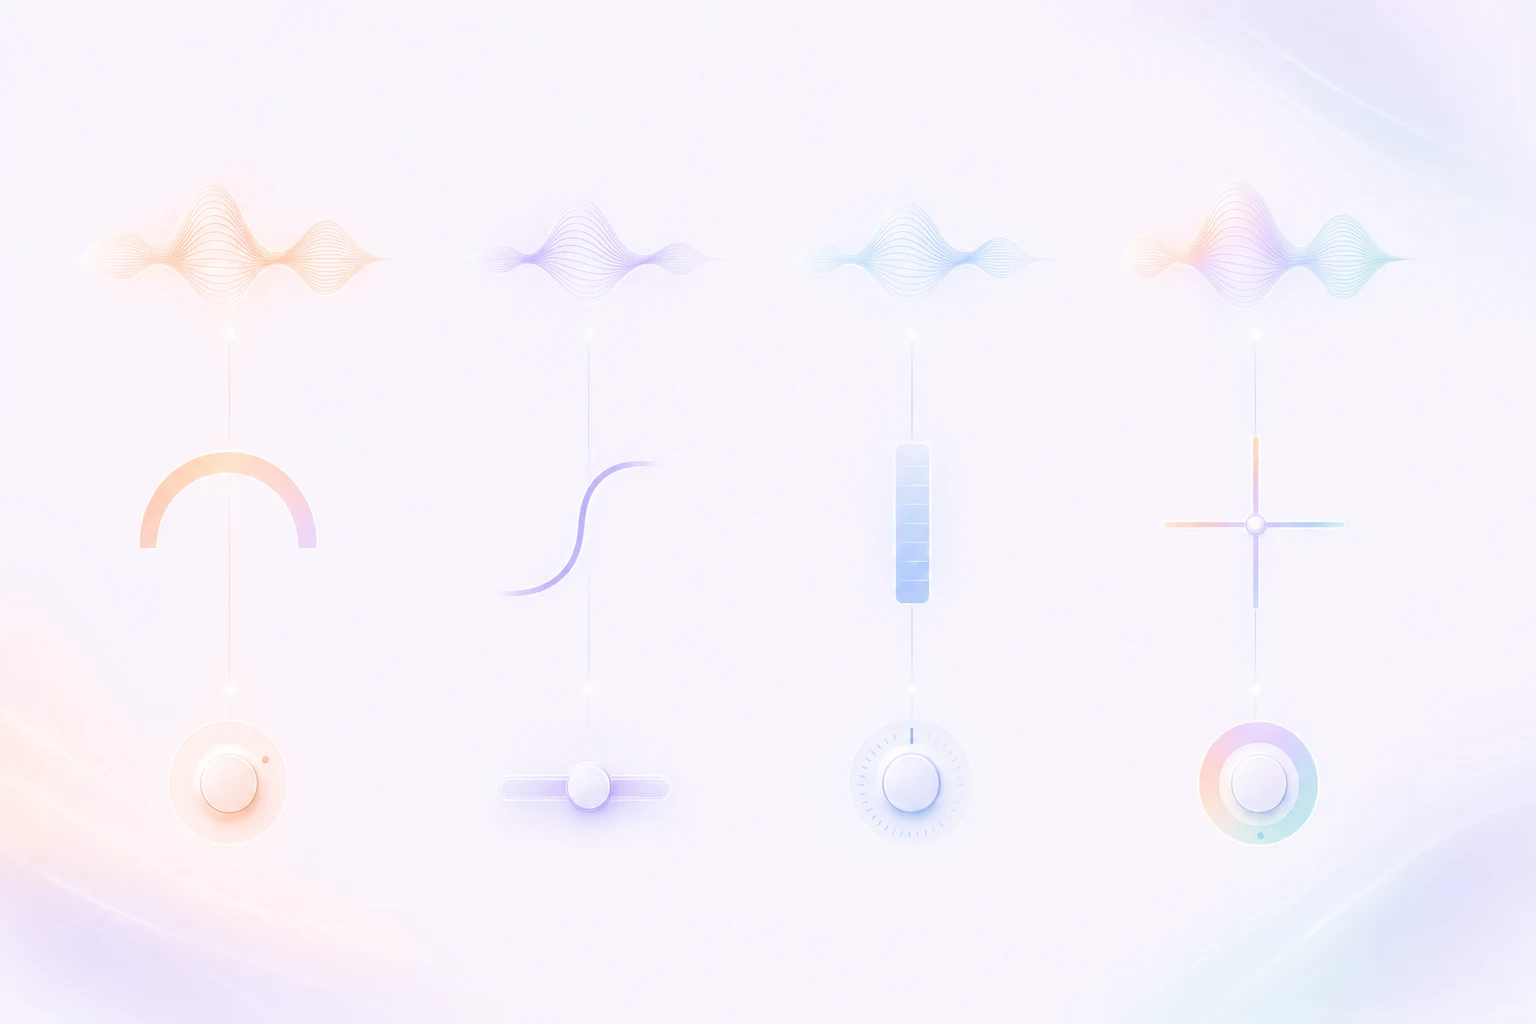
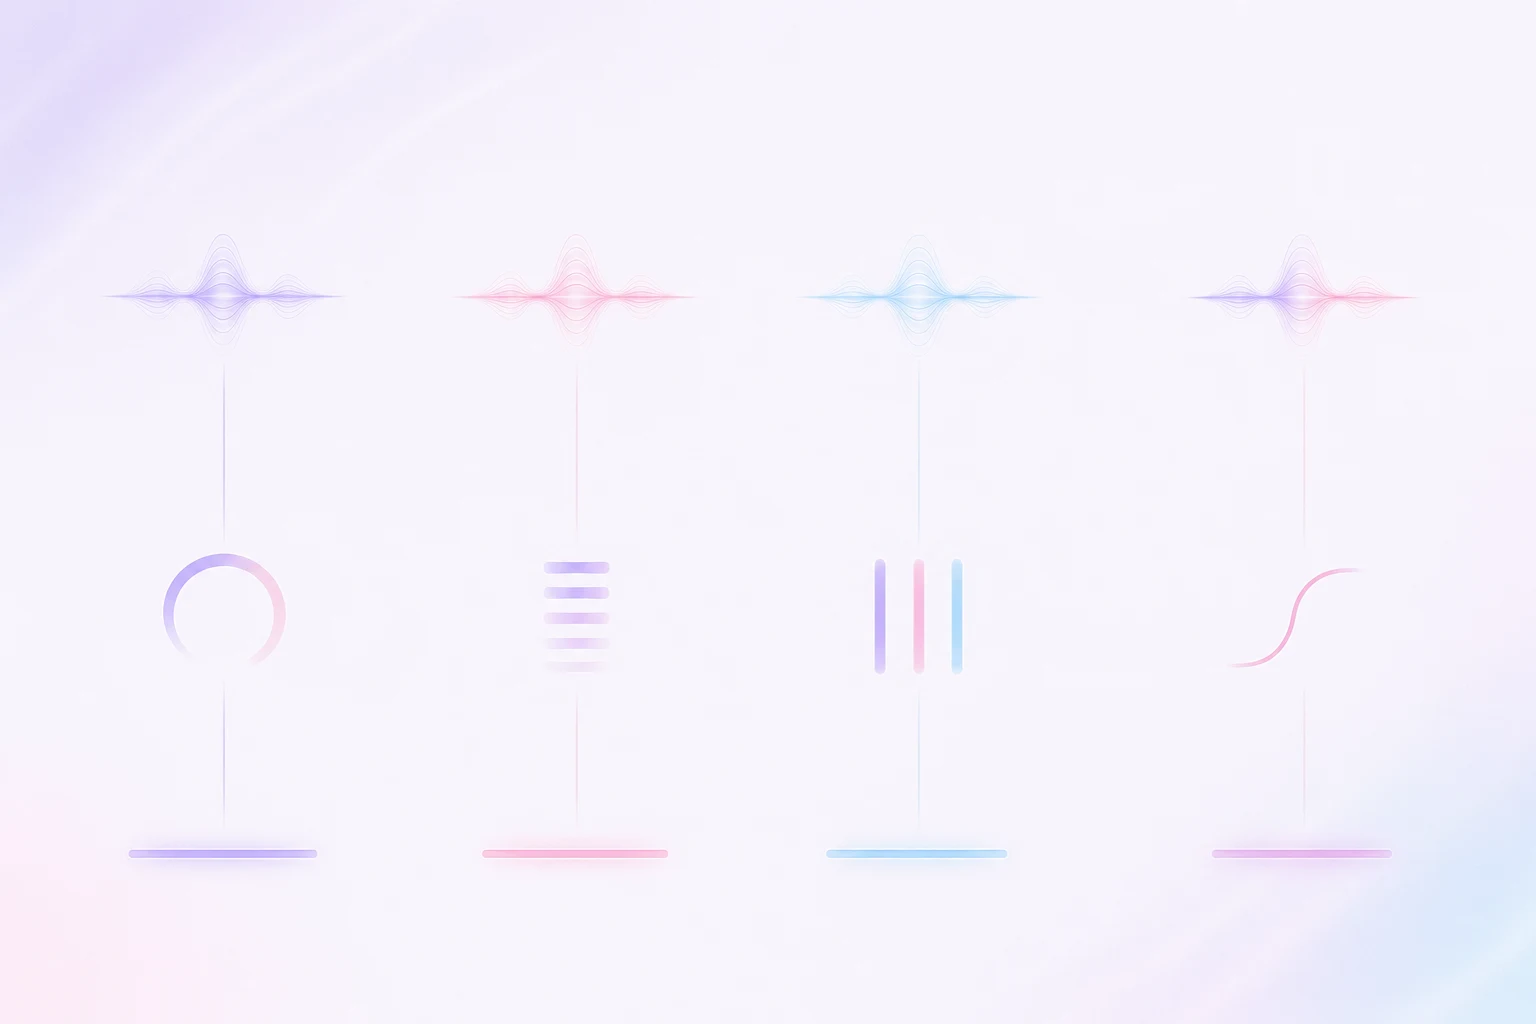
feat(notes/diagrams): grading 2図を v3 仕様に同期 (centered-axes + horizontal-flow / aurora 3色)
- grading-look-decomposition: axes/hint を v3 (8b38762c) に再アライン
  「色相弧 / 濃度バー / S 曲線 / RGB 3 ビーム」の 4 軸 + 軸独立性 hint
- grading-words-to-knobs: keypoint-row → horizontal-flow に切替
  4 steps「もう少し暖かく / もう少し抜けを / 青を深く / 映画っぽく」
- 両図の prompt から warm peach / muted teal / faint sky 系を除去
  aurora は purple / pink / sky の 3 色に厳格化
- AI 画像は背景・気分のみ、ラベル・番号・矢印は note-diagram.tsx で描画
- 画像再生成 + meta.json 更新

diff --git a/src/lib/notes/diagrams.ts b/src/lib/notes/diagrams.ts
@@ -116,37 +116,35 @@ export const DIAGRAM_REGISTRY: Record<string, DiagramConfig> = {
     layout: "centered-axes",
     title: "Look Decomposition 4軸マップ",
     caption:
-      "抽象的な言葉を、4つの調整軸に落とす。中心の作品ルックから「色の広がり・転がり」「濃度」「カーブ」「RGBカラーバランス」へ手が伸びる足場。",
-    alt: "中心に作品のルックを置き、色の広がり・転がり、濃度、カーブ、RGBカラーバランスの4軸が放射状に分かれることを示す抽象図解",
+      "ルックは独立した4軸の合成。中心の作品ルックから、色相弧・濃度バー・S曲線・RGB3ビームへ等しい重みで手が伸びる足場。",
+    alt: "中心に作品のルックを置き、色相弧・濃度バー・S曲線・RGB3ビームの4軸が等重みで放射状に分かれることを示す抽象図解",
     aspect: { width: 1536, height: 1024 },
-    intro: "中心 → 4軸の順で読む。「映画っぽく」が、4軸のどれかに落ちる仕組みを掴む。",
+    intro: "中心 → 4軸の順で読む。ルックは独立した4軸の合成として扱える。",
     centerLabel: "作品のルック",
-    centerSubLabel: "監督の言葉が、ノードに落ちる場所",
-    axesHeading: "4つの調整軸 — Look Decomposition",
+    centerSubLabel: "監督の言葉が、ここに落ちる",
+    axesHeading: "4 軸（等重み）",
     axes: [
       {
-        label: "色の広がり・転がり",
-        sublabel: "色相の回転と彩度。グレーも輝度も動かさない",
+        label: "色相弧",
+        sublabel: "色の広がり・転がり",
       },
       {
-        label: "濃度",
-        sublabel: "色ごとの輝度。立体感はここで決まる",
+        label: "濃度バー",
+        sublabel: "どこをどれだけ重く",
       },
       {
-        label: "カーブ",
-        sublabel: "グレースケールの明暗設計",
+        label: "S 曲線",
+        sublabel: "トーンの肩・トー",
       },
       {
-        label: "RGBカラーバランス",
-        sublabel: "全体グレーのズレ。最下層の色温度",
+        label: "RGB 3 ビーム",
+        sublabel: "カラーバランス",
       },
     ],
-    hintHeading: "監督の言葉 → 軸の対応",
+    hintHeading: "軸独立性",
     hints: [
-      "「もう少し暖かく」 → 色の広がり・転がり",
-      "「もう少し抜けを」 → カーブ",
-      "「青を深く」 → 濃度",
-      "「映画っぽく」 → 4軸の合成",
+      "軸同士は交差しない",
+      "色だけで意味を区別しない（軸位置と末端表象で区別）",
     ],
   },
   "filmlook-physics-flow": {
@@ -212,37 +210,33 @@ export const DIAGRAM_REGISTRY: Record<string, DiagramConfig> = {
   },
   "grading-words-to-knobs": {
     slug: "grading-words-to-knobs",
-    layout: "keypoint-row",
-    title: "監督の言葉 → 軸 → 操作",
+    layout: "horizontal-flow",
+    title: "言葉 → 軸 → 操作",
     caption:
-      "立ち会いで投げられる抽象的な一言を、4軸のどれに落とし、どのノブを動かすかで返す。言葉が手の届く場所に変わる。",
-    alt: "「もう少し暖かく」「もう少し抜けを」「青を深く」「映画っぽく」という4つの監督の言葉を、それぞれの軸と具体的操作にマッピングしたキーポイント図解",
+      "立ち会いで投げられる抽象的な一言を、4軸のどれに落とすかで返す。言葉 → 軸 → 操作の 3 段ホップで、抽象を具体に変換する。",
+    alt: "「もう少し暖かく」「もう少し抜けを」「青を深く」「映画っぽく」の4つの言葉を、それぞれ対応する軸と操作にマッピングする横フロー図解",
     aspect: { width: 1536, height: 1024 },
-    intro: "言葉 → 軸 → 操作。3段ホップで、抽象を具体に落とす。",
-    itemsHeading: "4つの言葉 — その先の軸と操作",
-    items: [
+    intro: "左 → 右で読む。監督の一言が、4 軸のどこに落ちるかを掴む。",
+    flowHeading: "言葉 → 軸 → 操作",
+    steps: [
       {
-        glyph: "word-axis-knob",
         label: "「もう少し暖かく」",
-        sublabel: "色の広がり・転がり / 色相を暖色側へ回し、彩度を一段。",
+        sublabel: "色相弧の方向に振る",
       },
       {
-        glyph: "word-axis-knob",
         label: "「もう少し抜けを」",
-        sublabel: "カーブ / S字を立て、肩を持ち上げる。",
+        sublabel: "濃度バーで暗部を整理する",
       },
       {
-        glyph: "word-axis-knob",
         label: "「青を深く」",
-        sublabel: "濃度 / 青の輝度だけを独立に落とす。",
+        sublabel: "RGB 3 ビームで青のバランスを下げる",
       },
       {
-        glyph: "word-axis-knob",
         label: "「映画っぽく」",
-        sublabel: "4軸の合成 / 仕込みで秘伝のタレを引き出す。",
+        sublabel: "S 曲線の肩を作る",
       },
     ],
-    takeaway: "言葉が、ノードに落ちる。",
+    takeaway: "監督の言葉は、4 軸のどこかに落ちる。",
   },
   "filmlook-density-mixture": {
     slug: "filmlook-density-mixture",
